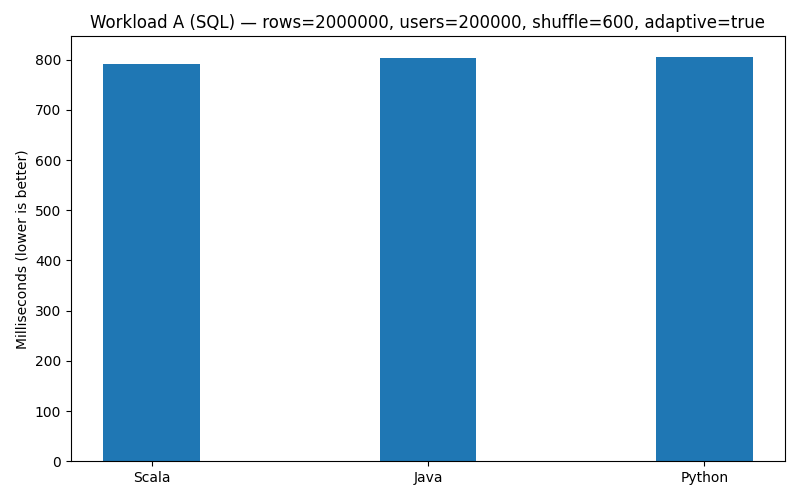
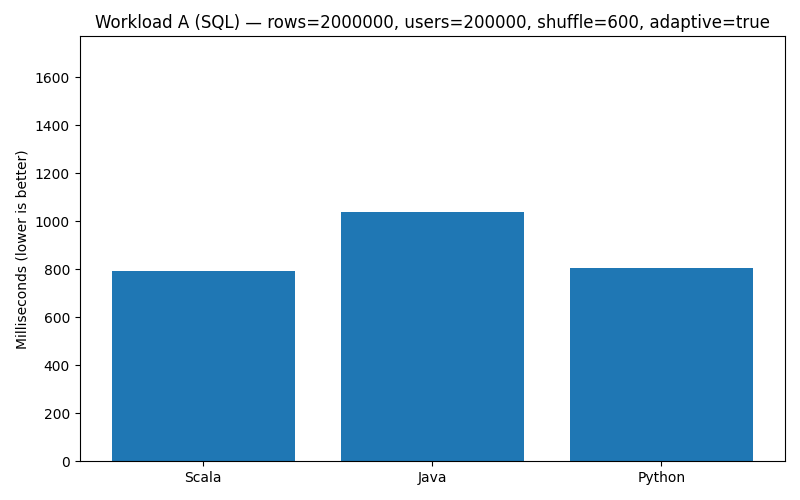
fix image creation

diff --git a/scripts/parse_and_plot.py b/scripts/parse_and_plot.py
@@ -1,28 +1,4 @@
 #!/usr/bin/env python3
-"""
-Parse Spark benchmark logs and produce a CSV + plots.
-
-USAGE
------
-python3 scripts/parse_and_plot.py \
-  --logs results/*.log \
-  --out-csv results/bench.csv \
-  --out-png results/bench.png
-
-WHAT IT DOES
-------------
-- Reads any lines that start with 'RESULT ' from the given logs.
-- Parses common fields:
-    lang, rows, users, shuffle, adaptive,
-    WorkloadA_ms,
-    WorkloadB_ms or WorkloadB_py_ms,
-    WorkloadB_pandas_ms (optional, Python only)
-- Writes a tidy CSV (one row per RESULT line).
-- Aggregates repeated runs with the same (lang, rows, users, shuffle, adaptive) using the median.
-- Produces a grouped bar chart comparing per-language medians for:
-    - WorkloadA (SQL-native)
-    - WorkloadB (UDF-heavy; Python column prefers pandas UDF if present)
-"""
 import argparse
 import csv
 import glob
@@ -36,15 +12,9 @@ import matplotlib.pyplot as plt
 
 RESULT_PREFIX = "RESULT "
 
-# Example lines:
-# RESULT scala rows=20000000 users=200000 shuffle=600 adaptive=true WorkloadA_ms=12345 WorkloadB_ms=67890
-# RESULT java rows=20000000 users=200000 shuffle=600 adaptive=true WorkloadA_ms=12001 WorkloadB_ms=70000
-# RESULT python rows=20000000 users=200000 shuffle=600 adaptive=true WorkloadA_ms=14002 WorkloadB_py_ms=99000 WorkloadB_pandas_ms=31000
-
 KV_RE = re.compile(r"(\w+)=([^\s]+)")
 
 def parse_result_line(line: str) -> Dict[str, str]:
-    # Expect the line to start with RESULT <lang> ...
     if not line.startswith(RESULT_PREFIX):
         return {}
     parts = line.strip().split()
@@ -52,7 +22,7 @@ def parse_result_line(line: str) -> Dict[str, str]:
         return {}
     lang = parts[1]
     kvs = dict(KV_RE.findall(line))
-    # Normalize keys:
+
     out = {
         "lang": lang.lower(),
         "rows": kvs.get("rows"),
@@ -60,8 +30,6 @@ def parse_result_line(line: str) -> Dict[str, str]:
         "shuffle": kvs.get("shuffle"),
         "adaptive": kvs.get("adaptive"),
         "WorkloadA_ms": kvs.get("WorkloadA_ms"),
-        # Prefer generic 'WorkloadB_ms' if present (scala/java),
-        # else fall back to Python-specific keys.
         "WorkloadB_ms": kvs.get("WorkloadB_ms"),
         "WorkloadB_py_ms": kvs.get("WorkloadB_py_ms"),
         "WorkloadB_pandas_ms": kvs.get("WorkloadB_pandas_ms"),
@@ -87,10 +55,6 @@ def write_csv(rows: List[Dict[str, str]], out_csv: str):
             w.writerow(r)
 
 def aggregate_median(rows: List[Dict[str, str]]) -> List[Dict[str, str]]:
-    """
-    Collapse repeated runs (same lang, rows, users, shuffle, adaptive)
-    by taking median of numeric metrics.
-    """
     key_fields = ("lang", "rows", "users", "shuffle", "adaptive")
     buckets: Dict[Tuple[str, str, str, str, str], List[Dict[str, str]]] = {}
     for r in rows:
@@ -108,12 +72,6 @@ def aggregate_median(rows: List[Dict[str, str]]) -> List[Dict[str, str]]:
     return out
 
 def select_udf_column(row: Dict[str, str]) -> Tuple[str, int]:
-    """
-    Decide which UDF number to plot:
-    - Scala/Java: WorkloadB_ms
-    - Python: prefer WorkloadB_pandas_ms if present, else WorkloadB_py_ms
-    Returns (metric_name, value_int or math.nan)
-    """
     lang = row.get("lang", "").lower()
     if lang in ("scala", "java"):
         m = row.get("WorkloadB_ms")
@@ -124,67 +82,81 @@ def select_udf_column(row: Dict[str, str]) -> Tuple[str, int]:
     return (name, int(m)) if m else (name, math.nan)
 
 def plot_grouped(agg_rows: List[Dict[str, str]], out_png: str):
-    """
-    For EACH unique (rows, users, shuffle, adaptive) config,
-    make a grouped bar of languages for WorkloadA and WorkloadB.
-    If multiple configs exist, we plot only the most common one
-    and print a hint.
-    """
     if not agg_rows:
         print("No rows to plot.")
         return
 
-    # Group by config, choose the largest group
     cfg_key = lambda r: (r["rows"], r["users"], r["shuffle"], r["adaptive"])
     from collections import defaultdict
     groups = defaultdict(list)
     for r in agg_rows:
         groups[cfg_key(r)].append(r)
-    # Choose the config with most languages present.
-    best_cfg, best_group = max(groups.items(), key=lambda kv: len(kv[1]))
 
-    langs = ["scala", "java", "python"]
-    # Build arrays:
-    wlA = []
-    wlB = []
-    labels = []
+    best_cfg, best_group = max(groups.items(), key=lambda kv: len(kv[1]))
     rows, users, shuffle, adaptive = best_cfg
+
     # Index rows by lang for fast lookup
     by_lang = {r["lang"]: r for r in best_group}
-    for lg in langs:
+
+    def _to_num(x):
+        try:
+            return float(x)
+        except Exception:
+            return math.nan
+
+    # ------- Build Workload A (always 3 bars: Scala, Java, Python) -------
+    labelsA = ["Scala", "Java", "Python"]
+    wlA = []
+    for lg in ["scala", "java", "python"]:
         r = by_lang.get(lg)
-        if r:
-            a = r.get("WorkloadA_ms")
-            a_val = int(a) if a else math.nan
-            wlA.append(a_val)
-            _, b_val = select_udf_column(r)
-            wlB.append(b_val)
-        else:
-            wlA.append(math.nan)
-            wlB.append(math.nan)
-        labels.append(lg.capitalize())
+        wlA.append(_to_num(r.get("WorkloadA_ms")) if r else math.nan)
 
-    # Plot
+    # ------- Build Workload B (JVM + both Python variants if present) -------
+    labelsB = ["Scala", "Java"]
+    wlB = []
+    # Scala, Java (their UDF metric is WorkloadB_ms)
+    for lg in ["scala", "java"]:
+        r = by_lang.get(lg)
+        wlB.append(_to_num(r.get("WorkloadB_ms")) if r else math.nan)
+
+    # Python plain UDF
+    rp = by_lang.get("python")
+    if rp and rp.get("WorkloadB_py_ms"):
+        labelsB.append("Python UDF")
+        wlB.append(_to_num(rp.get("WorkloadB_py_ms")))
+
+    # Python pandas UDF
+    if rp and rp.get("WorkloadB_pandas_ms"):
+        labelsB.append("Python Pandas UDF")
+        wlB.append(_to_num(rp.get("WorkloadB_pandas_ms")))
+
+    # ------- Compute a shared y-axis (optional) -------
+    all_vals = [v for v in (wlA + wlB) if not math.isnan(v)]
+    y_max = max(all_vals) * 1.1 if all_vals else 1.0
+
+    # Ensure output dir
     os.makedirs(os.path.dirname(out_png), exist_ok=True)
-    x = range(len(langs))
-    width = 0.35
 
-    # Workload A
+    # ------- Plot Workload A -------
+    xA = range(len(wlA))
     plt.figure(figsize=(8, 5))
-    plt.bar(x, wlA, width)
-    plt.xticks(list(x), labels)
+    plt.bar(xA, wlA)
+    plt.xticks(list(xA), labelsA)
     plt.ylabel("Milliseconds (lower is better)")
     plt.title(f"Workload A (SQL) — rows={rows}, users={users}, shuffle={shuffle}, adaptive={adaptive}")
+    plt.ylim(0, y_max)  # keep same scale as B for visual parity
     plt.tight_layout()
     plt.savefig(out_png.replace(".png", "_A.png"))
     plt.close()
 
-    # Workload B
+    # ------- Plot Workload B -------
+    xB = range(len(wlB))
     plt.figure(figsize=(8, 5))
-    plt.bar(x, wlB, width)
-    plt.xticks(list(x), labels)
+    plt.bar(xB, wlB)
+    plt.xticks(list(xB), labelsB)
     plt.ylabel("Milliseconds (lower is better)")
     plt.title(f"Workload B (UDF) — rows={rows}, users={users}, shuffle={shuffle}, adaptive={adaptive}")
+    plt.ylim(0, y_max)
     plt.tight_layout()
     plt.savefig(out_png.replace(".png", "_B.png"))
     plt.close()
